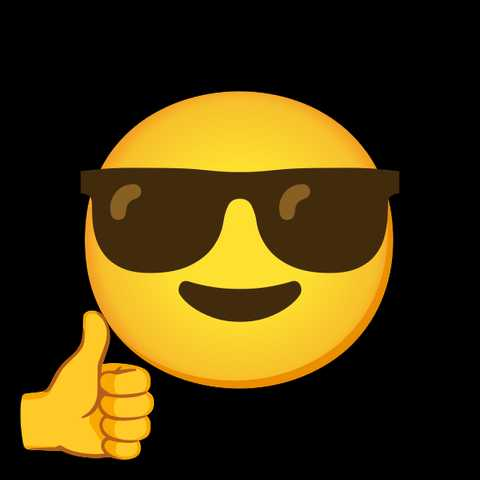
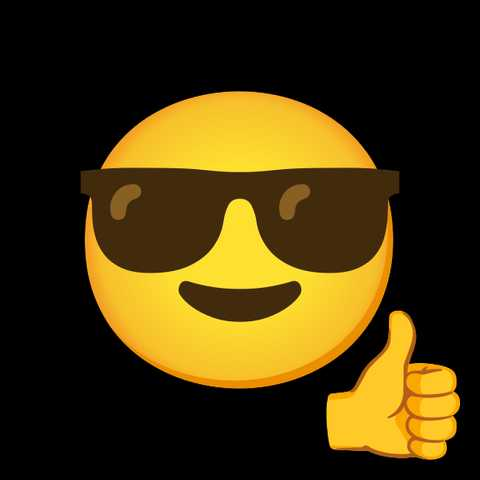
fix(done): position thumbs-up aux at bottom-right
Add bottom-right aux_pos support to render_states.py and move the
done 👍 variants from bottom-left to bottom-right.

Changed region(s): [[0.0312, 0.625, 0.3438, 0.9688], [0.6562, 0.625, 0.9688, 0.9688]]

diff --git a/emoji/render_states.py b/emoji/render_states.py
@@ -150,6 +150,9 @@ def composite(face: Image.Image, aux: Image.Image | None,
         elif aux_pos == "bottom-left":
             ax = 20
             ay = CANVAS_SIZE - aux.height - 20
+        elif aux_pos == "bottom-right":
+            ax = CANVAS_SIZE - aux.width - 20
+            ay = CANVAS_SIZE - aux.height - 20
         else:
             ax = 20
             ay = CANVAS_SIZE - aux.height - 20